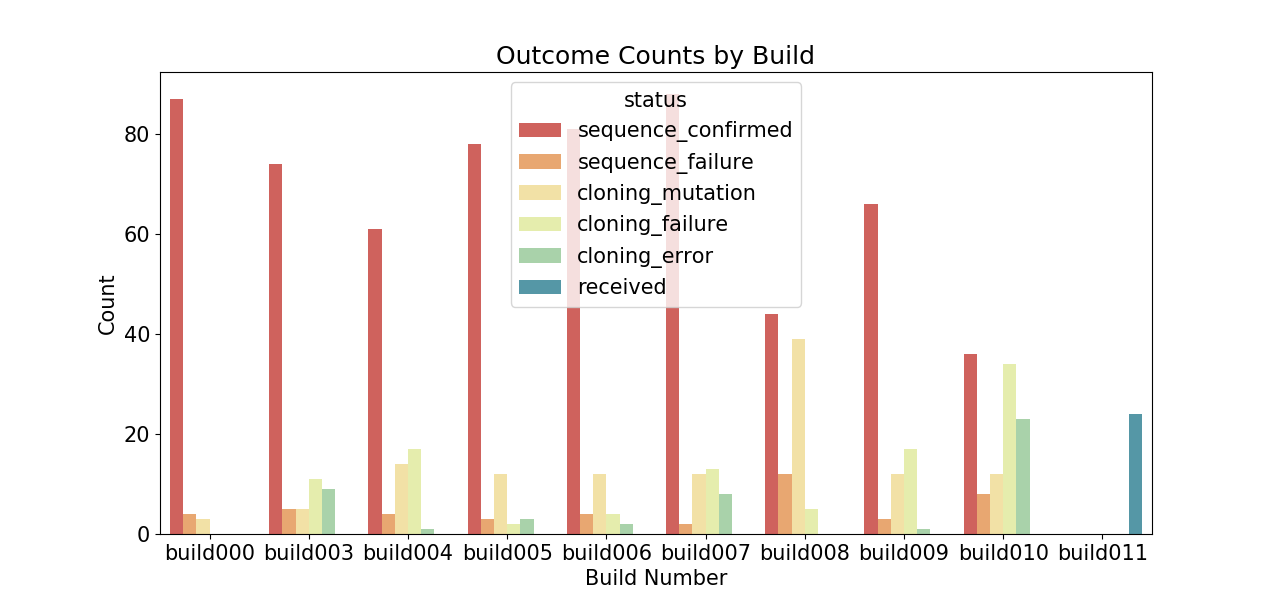
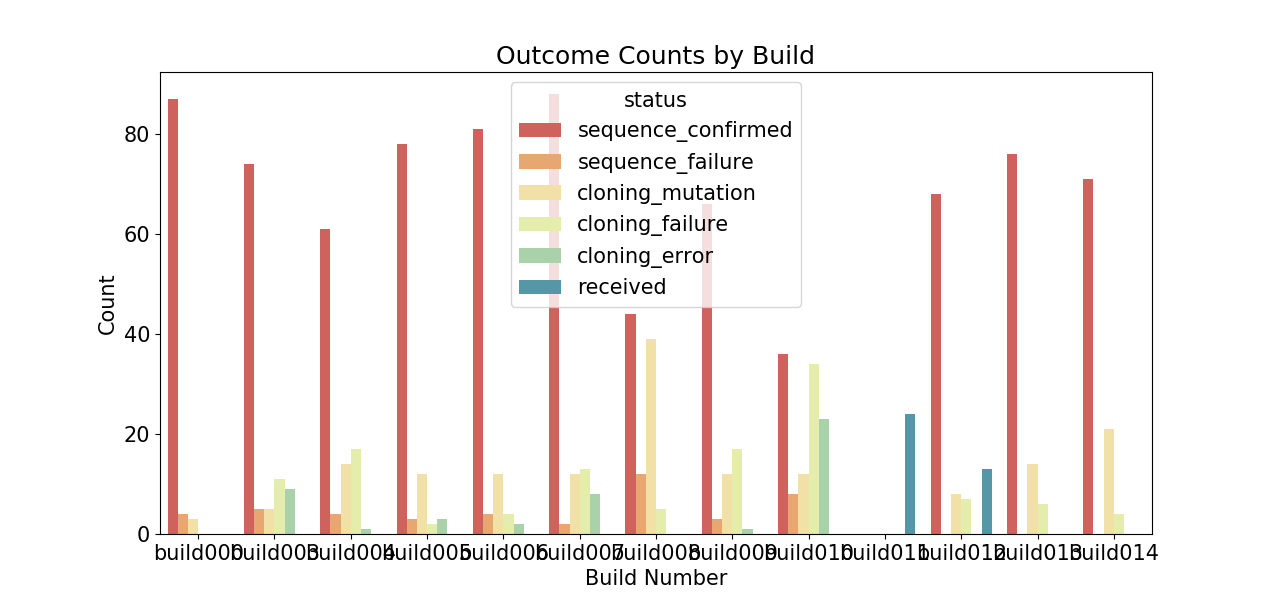
Updated with the manual results from builds012-014

Changed region(s): [[0.125, 0.15, 0.9062, 0.93], [0.4062, 0.15, 0.4375, 0.21]]

diff --git a/docs/Overall/index.md b/docs/Overall/index.md
@@ -10,7 +10,7 @@
 
 | Amount Ordered | Amount Received  | Amount Built | Cloning Success Rate |
 | :-------------: | :-------------: | :-------------: | :-------------: |
-| 3672434bp / 3306genes | 3512423bp / 3219genes | 609369bp / 495genes | 66% |
+| 3672434bp / 3306genes | 3512423bp / 3219genes | 777186bp / 710genes | 71% |
 
 ## Detailed Results
 
@@ -80,4 +80,4 @@
 | BBF10K_000661 | pctV_Sni^opt | 1329 | 1 | cds |
 
 
-##### Last updated: 2018-06-07
+##### Last updated: 2018-06-11

diff --git a/docs/Order_001/index.md b/docs/Order_001/index.md
@@ -6,4 +6,4 @@
 
 ### Above is a Sankey Diagram reflecting the current status of the Free Genes project workflow
 
-##### Last updated: 2018-06-07
+##### Last updated: 2018-06-11

diff --git a/docs/Order_002/index.md b/docs/Order_002/index.md
@@ -6,4 +6,4 @@
 
 ### Above is a Sankey Diagram reflecting the current status of the Free Genes project workflow
 
-##### Last updated: 2018-06-07
+##### Last updated: 2018-06-11

diff --git a/docs/Order_003/index.md b/docs/Order_003/index.md
@@ -6,4 +6,4 @@
 
 ### Above is a Sankey Diagram reflecting the current status of the Free Genes project workflow
 
-##### Last updated: 2018-06-07
+##### Last updated: 2018-06-11

diff --git a/docs/Order_004/index.md b/docs/Order_004/index.md
@@ -6,4 +6,4 @@
 
 ### Above is a Sankey Diagram reflecting the current status of the Free Genes project workflow
 
-##### Last updated: 2018-06-07
+##### Last updated: 2018-06-11

diff --git a/docs/Order_005/index.md b/docs/Order_005/index.md
@@ -6,4 +6,4 @@
 
 ### Above is a Sankey Diagram reflecting the current status of the Free Genes project workflow
 
-##### Last updated: 2018-06-07
+##### Last updated: 2018-06-11

diff --git a/docs/Order_006/index.md b/docs/Order_006/index.md
@@ -6,4 +6,4 @@
 
 ### Above is a Sankey Diagram reflecting the current status of the Free Genes project workflow
 
-##### Last updated: 2018-06-07
+##### Last updated: 2018-06-11

diff --git a/docs/Order_007/index.md b/docs/Order_007/index.md
@@ -6,4 +6,4 @@
 
 ### Above is a Sankey Diagram reflecting the current status of the Free Genes project workflow
 
-##### Last updated: 2018-06-07
+##### Last updated: 2018-06-11

diff --git a/docs/Order_008/index.md b/docs/Order_008/index.md
@@ -6,4 +6,4 @@
 
 ### Above is a Sankey Diagram reflecting the current status of the Free Genes project workflow
 
-##### Last updated: 2018-06-07
+##### Last updated: 2018-06-11

diff --git a/docs/Order_009/index.md b/docs/Order_009/index.md
@@ -6,4 +6,4 @@
 
 ### Above is a Sankey Diagram reflecting the current status of the Free Genes project workflow
 
-##### Last updated: 2018-06-07
+##### Last updated: 2018-06-11

diff --git a/docs/Order_010/index.md b/docs/Order_010/index.md
@@ -6,4 +6,4 @@
 
 ### Above is a Sankey Diagram reflecting the current status of the Free Genes project workflow
 
-##### Last updated: 2018-06-07
+##### Last updated: 2018-06-11

diff --git a/docs/Order_011/index.md b/docs/Order_011/index.md
@@ -6,4 +6,4 @@
 
 ### Above is a Sankey Diagram reflecting the current status of the Free Genes project workflow
 
-##### Last updated: 2018-06-07
+##### Last updated: 2018-06-11
